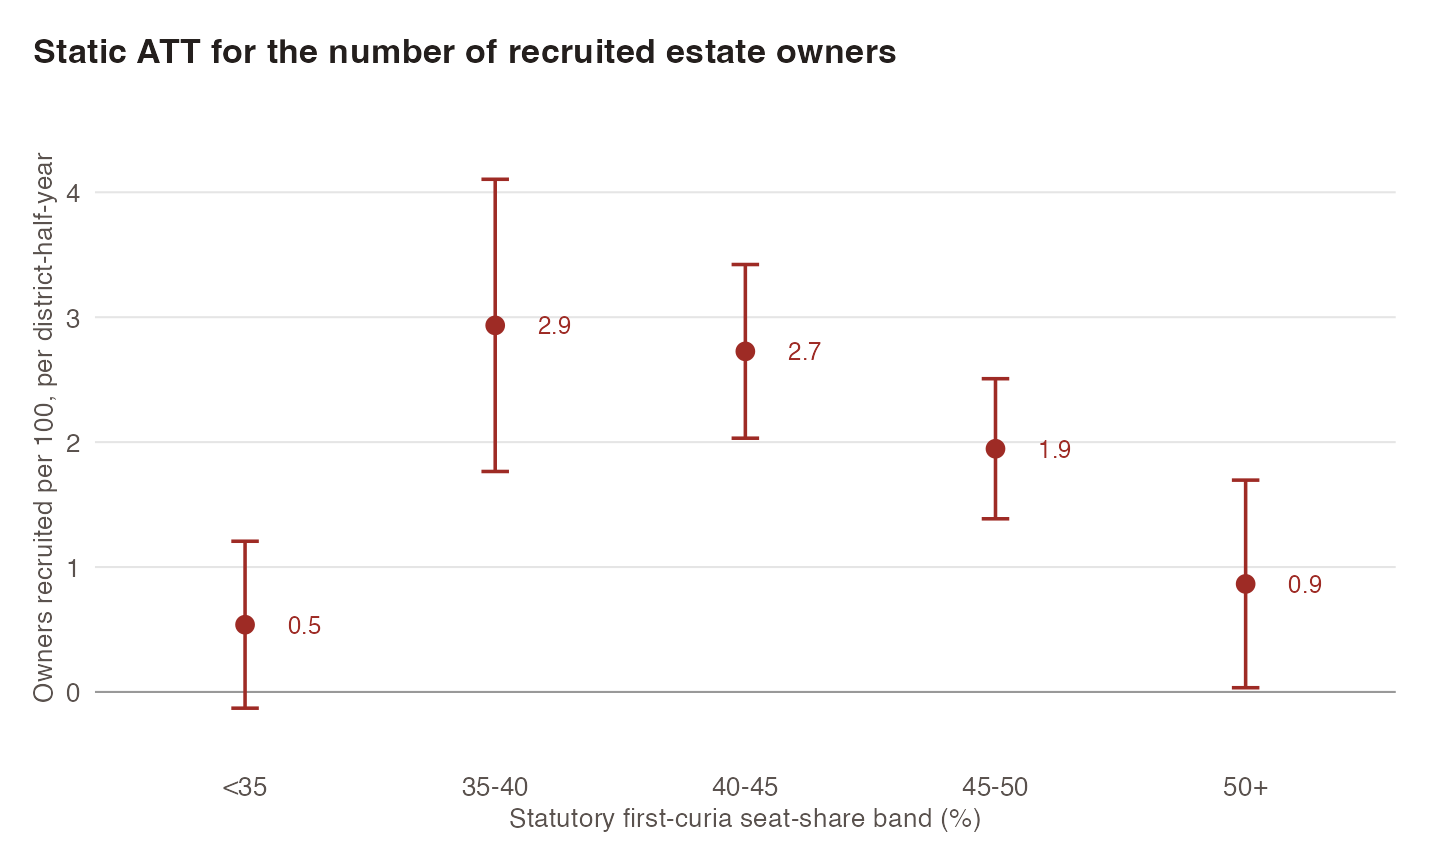
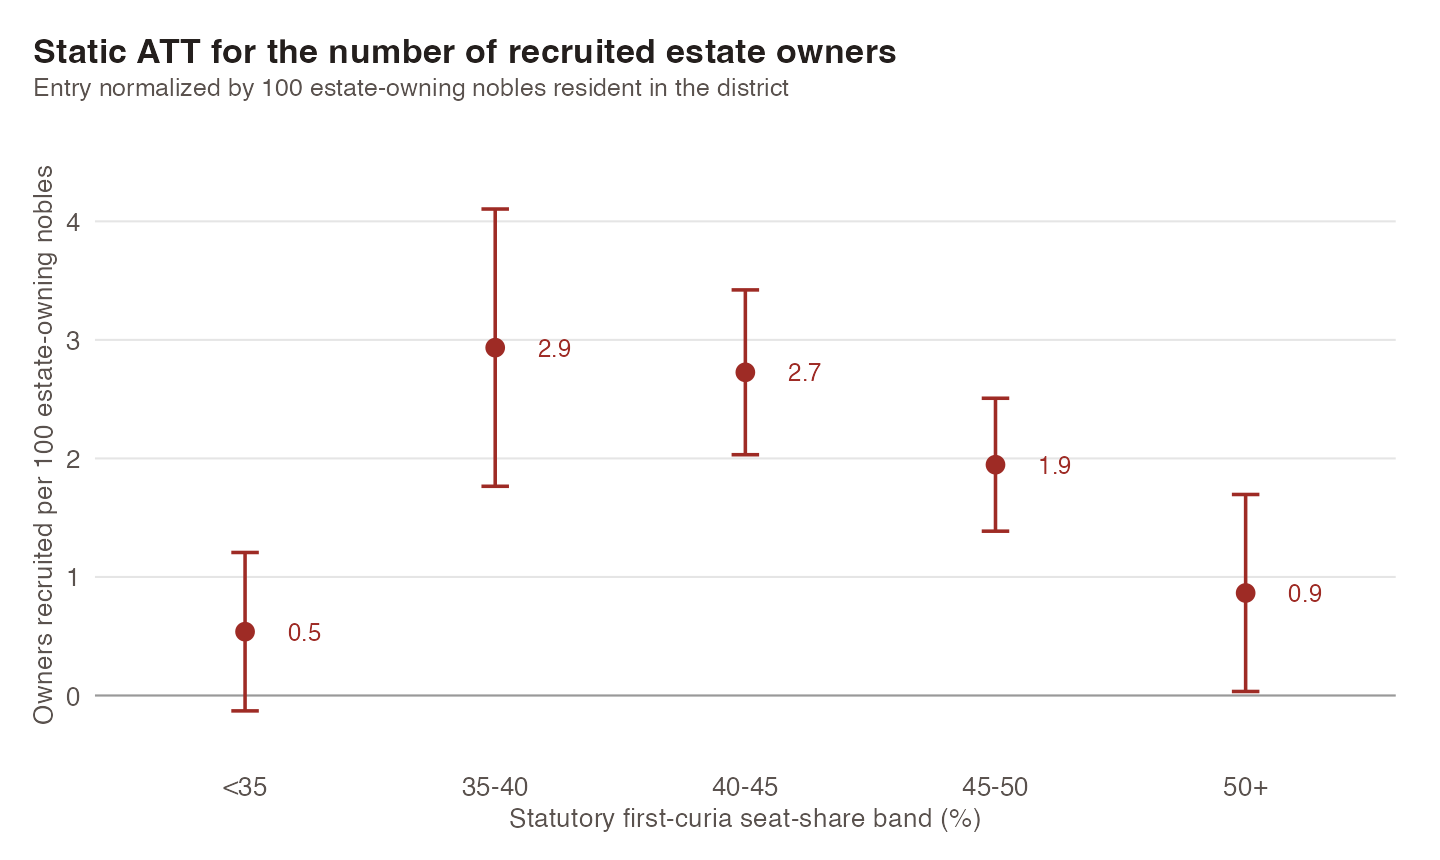
State the per-100-estate-owning-nobles normalization on the zemstvo figure and caption

diff --git a/research.html b/research.html
@@ -271,7 +271,7 @@
             <p class="status"><span class="pill working">Working paper</span><span class="pill year">2026</span></p>
             <p class="byline">with Otto Kienitz</p>
             <details><summary>Abstract</summary><div class="abstract"><p>How do weak states build local capacity when they lack the money, the personnel, and the information to govern their own territory? We argue they can do it by deliberately empowering the majority against the very elites on whom their rule depends. A weak state needs local elites to staff the offices that implement policy, but it also needs more revenue and public goods than those elites, left in control of policy, will ever supply. Enfranchising a non-elite majority closes the gap twice over: it raises revenue by taxing the elite, and it draws elite members into the bureaucracy, because their marginal contribution to public goods provision rises with the revenue raised. The state then tunes the level of enfranchisement to keep elites from retaking power and extracting rents from the majority. We test the theory on the 1864 <em>zemstvo</em> reform in the Russian Empire, which produced an explosion of elite participation in local administration even as elite political power fell. We reconstruct the archival formula that allocated assembly seats and trace local political power through the taxation of noble estates, the assemblies&rsquo; budgets, and their policy record. Where the majority held power, the elite paid more, and more of the peasant-facing agenda was implemented. Participatory local government in the Russian Empire emerged not from democratic pressure below, but from an autocracy building state capacity from a position of severe weakness.</p></div></details>
-            <figure class="paperfig"><a class="figlink" href="images/figures/fig-zemstvo.png"><img src="images/figures/fig-zemstvo.png" alt="Point-and-interval plot of the static average treatment effect on owners recruited per 100, across five statutory first-curia seat-share bands." loading="lazy"></a><figcaption>Recruitment of estate owners into local administration is largest where the first curia held the fewest seats. Static ATT with 95% confidence intervals.</figcaption></figure>
+            <figure class="paperfig"><a class="figlink" href="images/figures/fig-zemstvo.png"><img src="images/figures/fig-zemstvo.png" alt="Point-and-interval plot of the static average treatment effect on owners recruited per 100 estate-owning nobles, across five statutory first-curia seat-share bands." loading="lazy"></a><figcaption>Recruitment of estate owners into local administration is largest where the first curia held the fewest seats. Static ATT, normalized by 100 estate-owning nobles in the district, with 95% confidence intervals.</figcaption></figure>
             <p class="availability">Draft available upon request.</p>
             <p class="presented">Presented at the Stanford Historical Social Science Workshop, the Berkeley&ndash;Stanford Bay Area Economic History Workshop, the Andrea Mitchell Center Graduate Workshop, and the Summer Workshop in the Economic History and Historical Political Economy of Eurasia.</p>
           </div>
